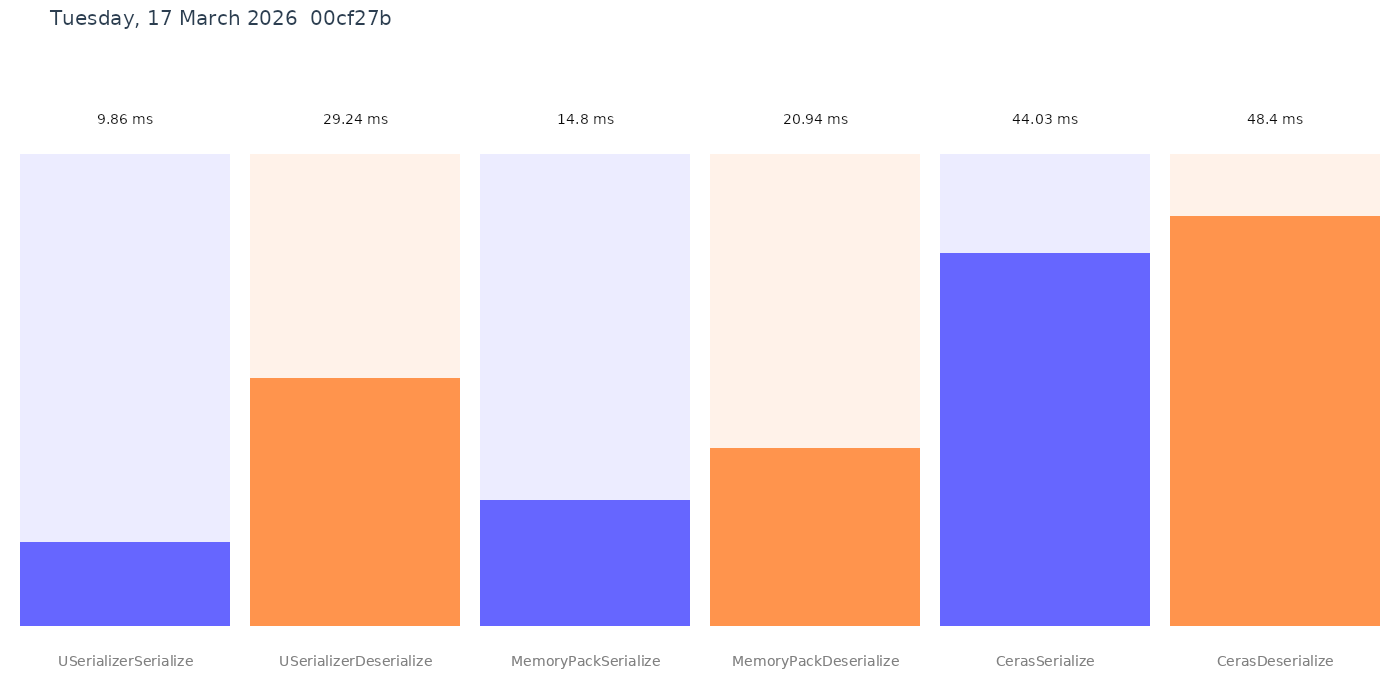
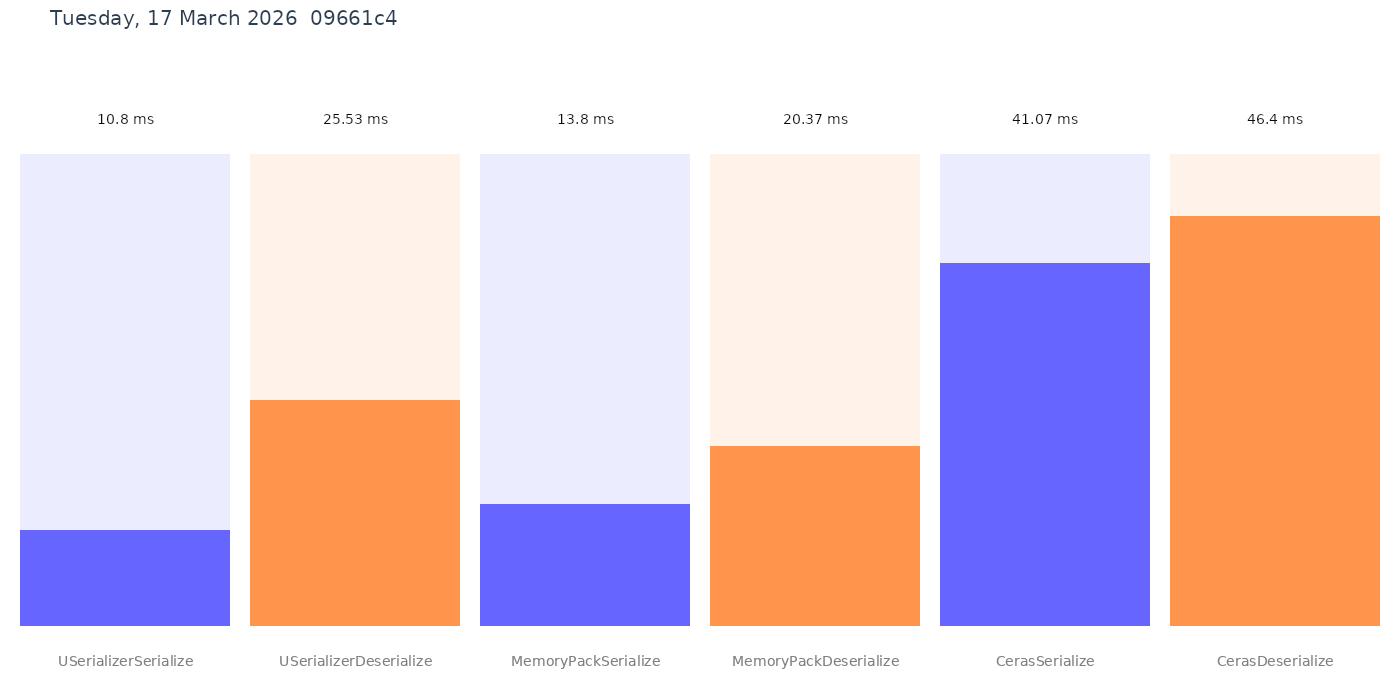
deploy: 09661c4bbf66b15c34d810f5ce4b5ed9ff2bddf3

diff --git a/performance.md b/performance.md
@@ -3,18 +3,18 @@
 BenchmarkDotNet=v0.12.1, OS=ubuntu 24.04
 AMD EPYC 7763, 1 CPU, 4 logical and 2 physical cores
 .NET Core SDK=10.0.102
-  [Host]   : .NET Core 9.0.14 (CoreCLR 9.0.1426.11910, CoreFX 9.0.1426.11910), X64 RyuJIT
-  ShortRun : .NET Core 9.0.14 (CoreCLR 9.0.1426.11910, CoreFX 9.0.1426.11910), X64 RyuJIT
+  [Host]   : .NET Core 10.0.2 (CoreCLR 10.0.225.61305, CoreFX 10.0.225.61305), X64 RyuJIT
+  ShortRun : .NET Core 10.0.2 (CoreCLR 10.0.225.61305, CoreFX 10.0.225.61305), X64 RyuJIT
 
 Job=ShortRun  IterationCount=3  LaunchCount=1  
 WarmupCount=3  
 
 ```
-|                 Method |      Mean |      Error |    StdDev |
-|----------------------- |----------:|-----------:|----------:|
-|   USerializerSerialize |  9.864 ms |  4.4520 ms | 0.2440 ms |
-| USerializerDeserialize | 29.243 ms |  0.2146 ms | 0.0118 ms |
-|    MemoryPackSerialize | 14.800 ms |  0.3660 ms | 0.0201 ms |
-|  MemoryPackDeserialize | 20.941 ms |  2.7364 ms | 0.1500 ms |
-|         CerasSerialize | 44.033 ms |  1.2448 ms | 0.0682 ms |
-|       CerasDeserialize | 48.399 ms | 10.1007 ms | 0.5537 ms |
+|                 Method |     Mean |    Error |   StdDev |
+|----------------------- |---------:|---------:|---------:|
+|   USerializerSerialize | 10.80 ms | 5.354 ms | 0.293 ms |
+| USerializerDeserialize | 25.53 ms | 1.017 ms | 0.056 ms |
+|    MemoryPackSerialize | 13.80 ms | 0.756 ms | 0.041 ms |
+|  MemoryPackDeserialize | 20.37 ms | 2.511 ms | 0.138 ms |
+|         CerasSerialize | 41.07 ms | 1.602 ms | 0.088 ms |
+|       CerasDeserialize | 46.40 ms | 1.903 ms | 0.104 ms |
